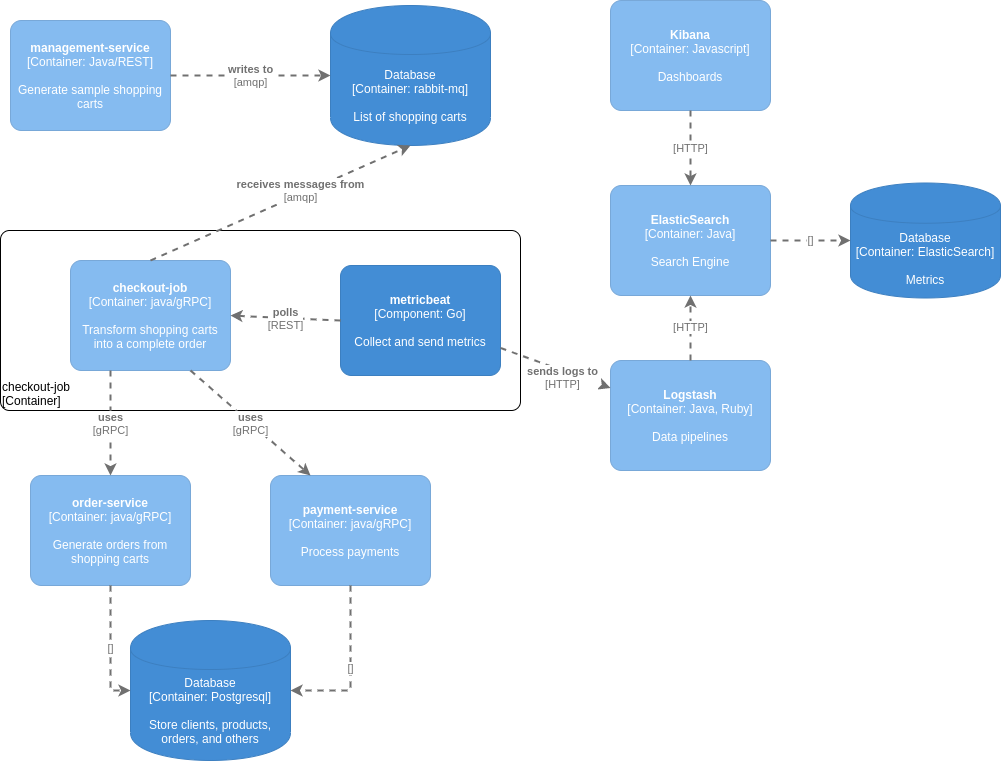
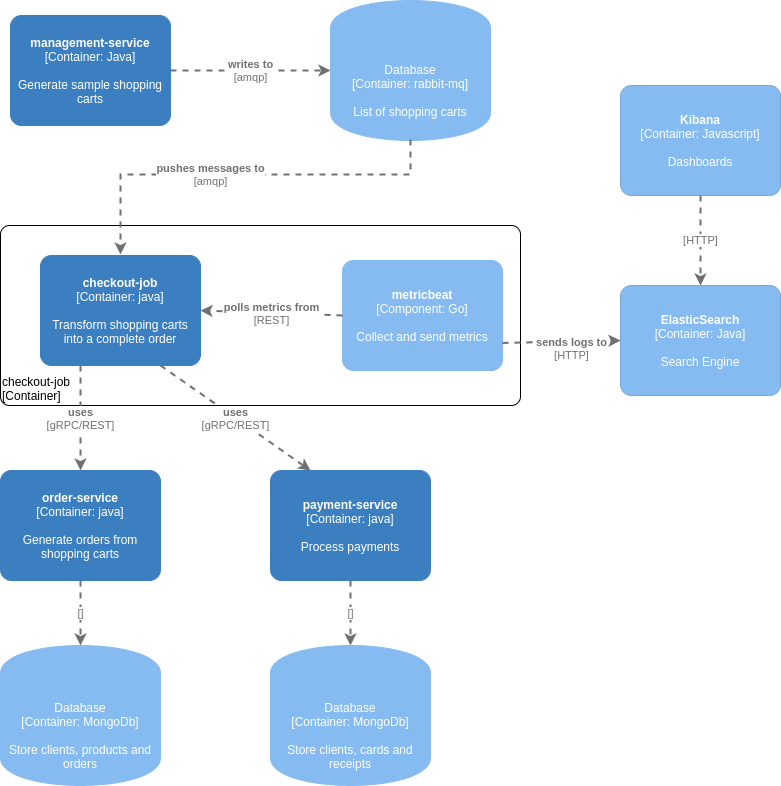
Add diagrams for README file

diff --git a/README.md b/README.md
@@ -1,22 +1,22 @@
 # architecture_scalability
 
-Main purpose of this project is to show, in numbers (metrics), how the architectural choice and deployment affect performance and scalability.
+Main purpose of this project is to show in numbers how the architectural choice and deployment affect performance and scalability.
 REST and gRPC, with synchronous and reactive implementations (async, non-blocking), in search for higher throughput and low latency.
 
 ### The idea
-I wanted to see metrics like throughput, latency, and CPU usage, in various loads, with different architecture and deployment choices. 
-Latency affects contract SLAs and user experience (UX), and its analysis may help defining the maximum throughput allowed for an individual application).
+I wanted to see metrics like throughput, latency, and CPU usage, in various loads, with different architecture and deployment setups. 
 
 ![Dashboard in Kibana](https://github.com/daniloteodoro/architecture_scalability/blob/main/docs/scalability_dashboard_730tps.png?raw=true)
 
+Latency, for example, affects contract SLAs and user experience (UX), and its analysis may help defining the maximum throughput allowed for an individual application).
 Certain parameters like throughput can be estimated using [Little's law](https://en.wikipedia.org/wiki/Little%27s_law), but I preferred an empirical test.
 As described below, by changing the shopping carts per second (arrival rate), or by adding/removing nodes in the cluster (capacity, scaling in/out), one can 
-observe how the system behaves with live metrics. The metrics include the whole process from user (request) point-of-view, e.g. latency starts counting 
+observe how the system with a certain architecture behaves, with live metrics. The metrics include the whole process from a user (request) point-of-view, e.g. latency starts counting 
 when a fictional shopping cart is created and finishes when the respective order is completed.
 
-(add sequence diagram)
+![Steps until an order gets created](https://github.com/daniloteodoro/architecture_scalability/blob/main/docs/ProcessOrder-sequence-diagram.png?raw=true)
 
-Deployment explanation and diagram
+![Deployment diagram](https://github.com/daniloteodoro/architecture_scalability/blob/main/docs/container-diagram.png?raw=true)
 
 ### Building and running as a cluster in Kubernetes (minikube or AWS)
 Enter directory `/architecture_scalability/k8/cluster` (I'll assume you're running scripts from there) <br>
@@ -115,7 +115,3 @@ You now should be able to reach your deployment using your custom domain, and th
 Example using the test domain _scale-order.tk_ with the new record called "apps" <br>
 * Kibana: http://apps.scale-order.tk/
 * Management API: http://apps.scale-order.tk/shopping-cart/samples/10
-
-
-
-// TODO: Add dashboard picture. Show how to switch between architecture types.
